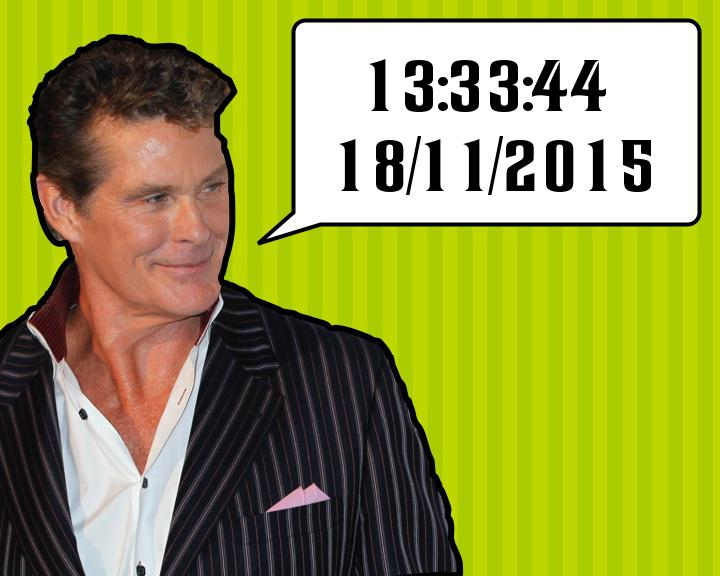
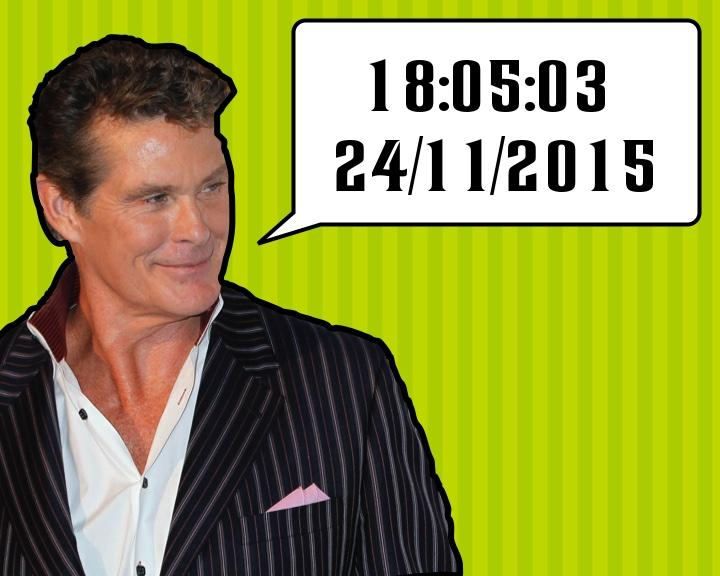
Fixing paths, removing debug lines

Changed region(s): [[0.4583, 0.2188, 0.9167, 0.3438], [0.55, 0.0938, 0.8556, 0.1875]]

diff --git a/createtime.py b/createtime.py
@@ -3,15 +3,12 @@ from PIL import ImageFont
 from PIL import ImageDraw 
 from datetime import datetime
 
-img = Image.open("templates/time.jpg")
+img = Image.open("/home/david/davidhashelhoff/templates/time.jpg")
 
 currently = datetime.now()
- 
 draw = ImageDraw.Draw(img)
-
-font = ImageFont.truetype("fonts/ruben.ttf", 60)
+font = ImageFont.truetype("/home/david/davidhashelhoff/fonts/ruben.ttf", 60)
 
 draw.text((360, 40), currently.strftime("%H:%M:%S"), (0,0,0), font=font)
 draw.text((330, 120), currently.strftime("%d/%m/%Y"), (0,0,0), font=font)
-
-img.save('images/time.jpg')
+img.save('/home/david/davidhashelhoff/images/time.jpg')

diff --git a/send_headlines.py b/send_headlines.py
@@ -7,7 +7,7 @@ from sqlalchemy.orm import sessionmaker
 from headlines import get_headline_options
 from models import Base, Question, QuestionOption
 
-engine = create_engine('sqlite:///hoff.db', echo=True)
+engine = create_engine('sqlite:///hoff.db')
 Session = sessionmaker(bind=engine)
 session = Session()
 Base.metadata.create_all(engine)
@@ -29,3 +29,4 @@ for i,headline in enumerate(headlines):
 	text += option+"\n"
 session.commit()
 api.send_direct_message(screen_name='mikejewell', text=text)
+api.send_direct_message(screen_name='jkittley', text=text)

diff --git a/poller.py b/poller.py
@@ -9,7 +9,7 @@ from models import Base, Question, QuestionOption
 import datetime
 import sys
 
-engine = create_engine('sqlite:///hoff.db', echo=True)
+engine = create_engine('sqlite:///hoff.db')
 Session = sessionmaker(bind=engine)
 session = Session()
 Base.metadata.create_all(engine)

diff --git a/start_game.py b/start_game.py
@@ -26,7 +26,7 @@ if option == 0:
 	print "No option chosen."
 	sys.exit(0)
 
-engine = create_engine('sqlite:///hoff.db', echo=True)
+engine = create_engine('sqlite:///hoff.db')
 Session = sessionmaker(bind=engine)
 session = Session()
 Base.metadata.create_all(engine)
